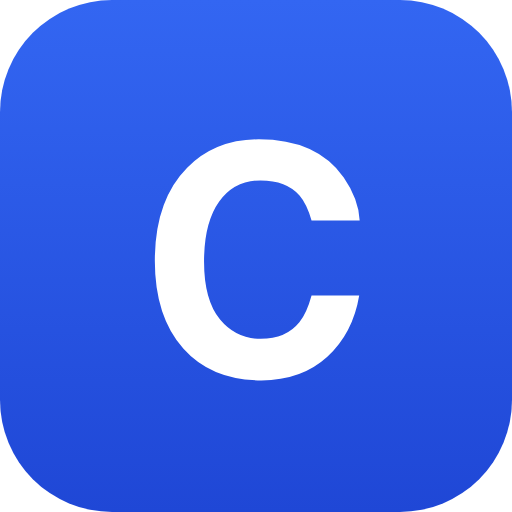
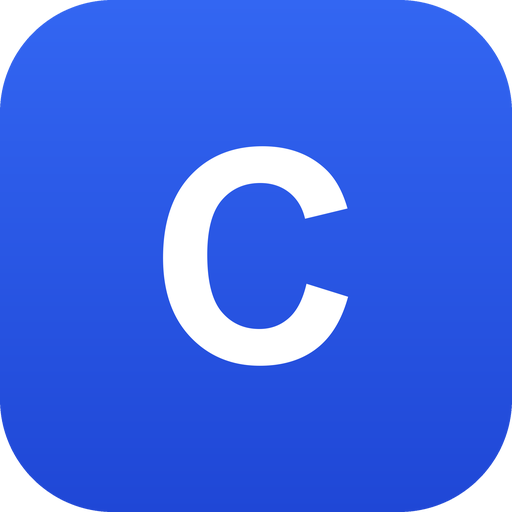
feat(client): make it installable on a phone
Added to the home screen it now opens as its own app rather than a bookmark. No
wrapper is involved — the manifest and these icons are all iOS and Android need.

The icons had one asset serving every purpose, which suits none of them. iOS
composites a transparent touch icon onto black and then applies its own rounded
mask, so the rounded corners we drew ourselves showed as black wedges: the touch
icon is now opaque, square and 180px, which is the size iOS asks for. Android
crops a maskable icon to the middle 80%, so that copy is separate and keeps its
glyph inside the safe zone, leaving the plain icons free to keep the rounded
silhouette for everywhere nothing masks them.

Installed, the page is also drawn edge to edge, under the status bar and the
home indicator. safe-top/safe-bottom/safe-x use env(safe-area-inset-*), which
is 0 in a normal tab, so one set of rules is correct in both.

diff --git a/client/public/index.html b/client/public/index.html
@@ -14,12 +14,19 @@
          fallback for anything that will not take an SVG favicon. -->
     <link rel="icon" type="image/svg+xml" href="%PUBLIC_URL%/favicon.svg" />
     <link rel="icon" type="image/png" sizes="192x192" href="%PUBLIC_URL%/icon-192.png" />
-    <link rel="apple-touch-icon" href="%PUBLIC_URL%/icon-192.png" />
+
+    <!-- iOS uses this one for the home screen, and only this one. It is opaque
+         and square on purpose: iOS composites transparency onto black and then
+         applies its own rounded mask, so an icon with its own rounded corners
+         shows black wedges outside them. -->
+    <link rel="apple-touch-icon" sizes="180x180" href="%PUBLIC_URL%/apple-touch-icon.png" />
 
     <link rel="manifest" href="%PUBLIC_URL%/manifest.json" />
     <meta name="theme-color" content="#1f47d6" />
 
-    <!-- Installable from the browser: Android reads the manifest, iOS reads these. -->
+    <!-- Added to the home screen it opens without browser chrome: Android reads
+         the manifest, iOS reads these. -->
+    <meta name="mobile-web-app-capable" content="yes" />
     <meta name="apple-mobile-web-app-capable" content="yes" />
     <meta name="apple-mobile-web-app-status-bar-style" content="default" />
     <meta name="apple-mobile-web-app-title" content="Committee" />

diff --git a/client/src/index.css b/client/src/index.css
@@ -10,10 +10,33 @@
   }
   body {
     @apply bg-ink-50 text-ink-900 font-sans;
+    /* Added to the home screen the page has no browser chrome around it, so
+       these are what stop it feeling like a web page: no grey flash behind a
+       tap, no rubber-band scroll past the ends, and no waiting 300ms for a
+       double-tap that cannot zoom anyway. */
+    -webkit-tap-highlight-color: transparent;
+    overscroll-behavior-y: contain;
+    touch-action: manipulation;
   }
 }
 
 @layer components {
+  /* Standalone on iOS, the page is drawn edge to edge — under the status bar,
+     the home indicator and, in landscape, the notch. env() returns 0 wherever
+     there is nothing to avoid, so these are inert in a normal browser tab. */
+  .safe-top {
+    padding-top: env(safe-area-inset-top);
+  }
+  .safe-bottom {
+    padding-bottom: calc(2rem + env(safe-area-inset-bottom));
+  }
+  /* Replaces the base px-4 rather than sitting alongside it; Tailwind's
+     responsive px-* utilities still win from `sm` up, where insets are 0. */
+  .safe-x {
+    padding-left: max(1rem, env(safe-area-inset-left));
+    padding-right: max(1rem, env(safe-area-inset-right));
+  }
+
   .card {
     @apply bg-white rounded-2xl shadow-card border border-ink-100;
   }

diff --git a/client/src/components/Navbar.js b/client/src/components/Navbar.js
@@ -28,8 +28,8 @@ const Navbar = () => {
         }`;
 
     return (
-        <header className="sticky top-0 z-40 bg-white/85 backdrop-blur border-b border-ink-100">
-            <nav className="max-w-7xl mx-auto px-4 sm:px-6 lg:px-8">
+        <header className="sticky top-0 z-40 bg-white/85 backdrop-blur border-b border-ink-100 safe-top">
+            <nav className="max-w-7xl mx-auto safe-x sm:px-6 lg:px-8">
                 <div className="flex items-center justify-between h-16 gap-4">
                     <Link to="/" className="flex items-center gap-2.5 shrink-0" onClick={() => setMenuOpen(false)}>
                         <span className="w-9 h-9 rounded-xl bg-brand-600 text-white flex items-center justify-center font-bold">

diff --git a/client/src/App.js b/client/src/App.js
@@ -30,7 +30,7 @@ const App = () => (
         <Router>
             <div className="min-h-screen bg-ink-50">
                 <Navbar />
-                <main className="max-w-7xl mx-auto px-4 sm:px-6 lg:px-8 py-8">
+                <main className="max-w-7xl mx-auto safe-x sm:px-6 lg:px-8 pt-8 safe-bottom">
                     <Routes>
                         <Route path="/login" element={<Login />} />
                         <Route path="/" element={<HomeManagement />} />
